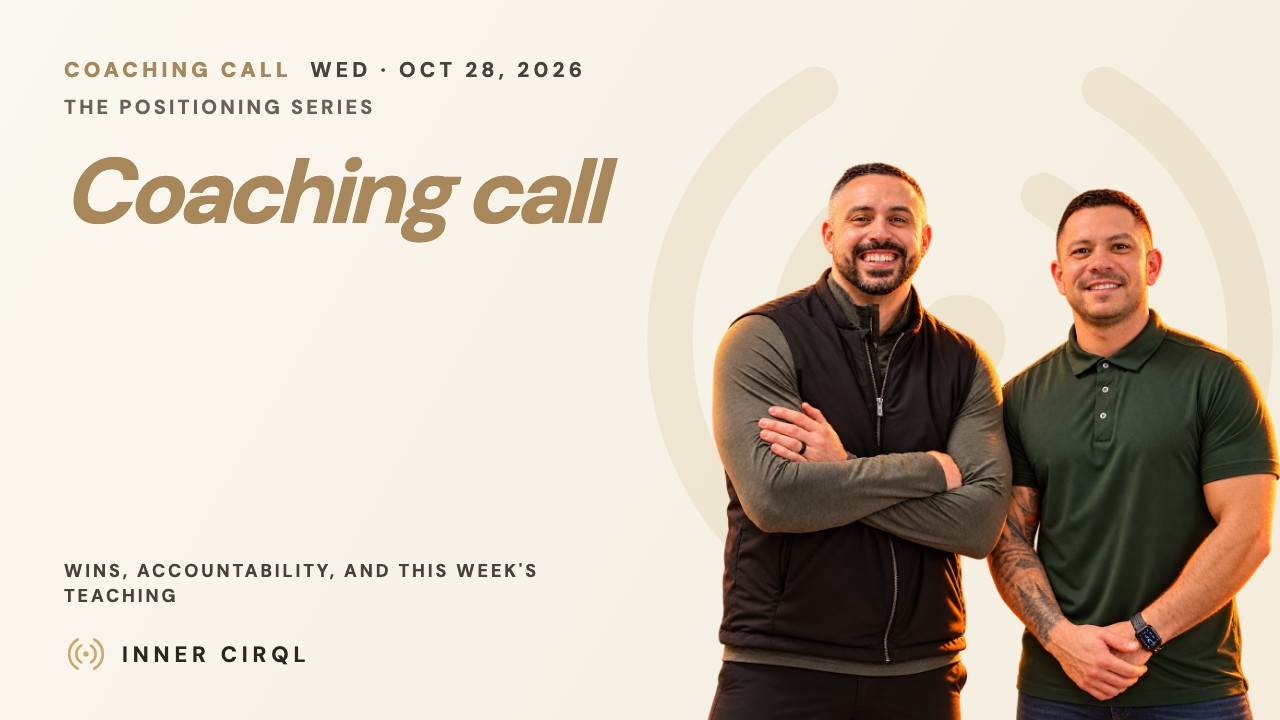
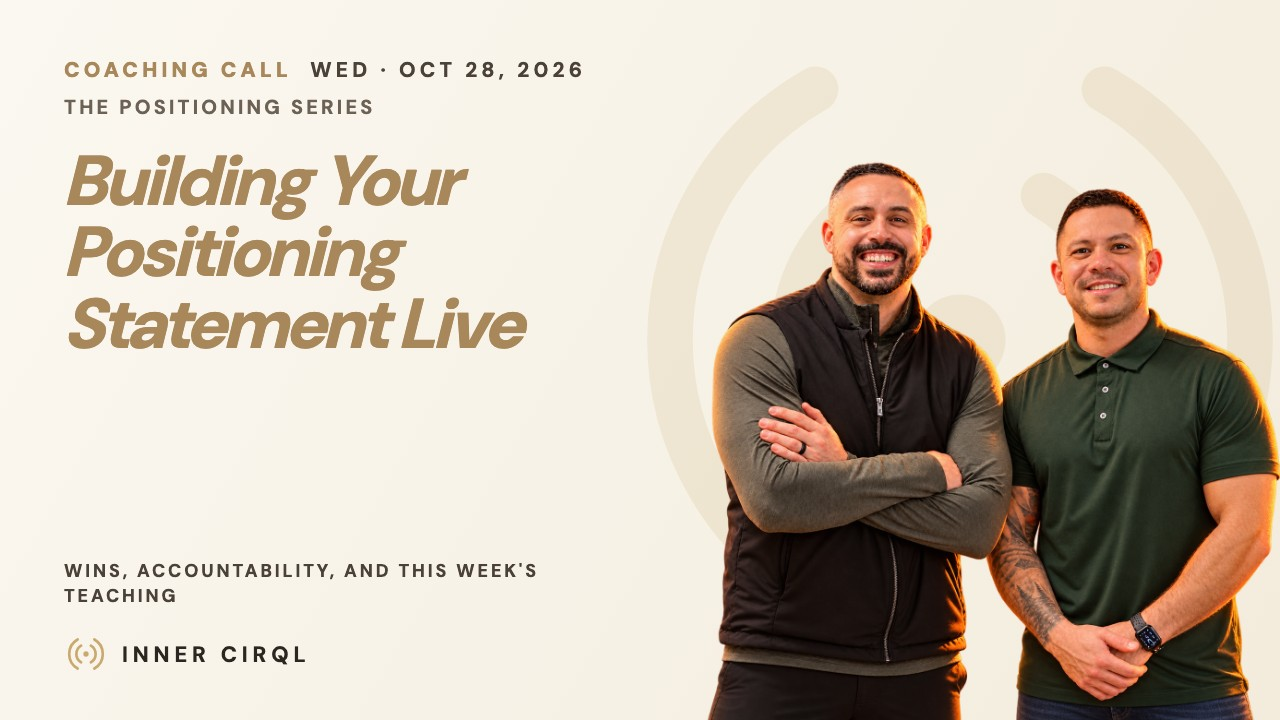
Training: retitle Oct 28 coaching call (The Positioning Series · Building Your Positioning Statement Live) + thumbnail

Changed region(s): [[0.0312, 0.2139, 0.5, 0.4889]]

diff --git a/training/index.html b/training/index.html
@@ -106,6 +106,25 @@ window.LIBRARY = {
   ],
   "items": [
     {
+      "id": "v-2026-10-28",
+      "date": "2026-10-28",
+      "dateLabel": "October 28, 2026",
+      "series": "the-positioning-series",
+      "week": null,
+      "name": "Building Your Positioning Statement Live",
+      "title": "The Positioning Series · Building Your Positioning Statement Live",
+      "headline": [
+        "Building Your Positioning Statement Live"
+      ],
+      "sub": "The Positioning Series",
+      "desc": "The Positioning Series: Building Your Positioning Statement Live. Wins, accountability, and the teaching segment, edited replay.",
+      "href": "https://coach.theinnercirql.com/2026-10-28/",
+      "pdf": null,
+      "slides": null,
+      "embed": "https://www.youtube.com/embed/CB_obZCdTHg?rel=0&modestbranding=1",
+      "thumb": "/assets/thumbs/oct-28-call.jpg?v=1"
+    },
+    {
       "id": "v-2026-11-11",
       "date": "2026-11-11",
       "dateLabel": "November 11, 2026",
@@ -143,25 +162,6 @@ window.LIBRARY = {
       "slides": null,
       "embed": "https://www.youtube.com/embed/QMkoeWeUkXY?rel=0&modestbranding=1",
       "thumb": "/assets/thumbs/sep-23-call.jpg?v=1"
-    },
-    {
-      "id": "v-2026-10-28",
-      "date": "2026-10-28",
-      "dateLabel": "October 28, 2026",
-      "series": "the-positioning-series",
-      "week": null,
-      "name": "Coaching call",
-      "title": "The Positioning Series · Coaching call",
-      "headline": [
-        "Coaching call"
-      ],
-      "sub": "The Positioning Series",
-      "desc": "The Positioning Series: Coaching call. Wins, accountability, and the teaching segment, edited replay.",
-      "href": "https://coach.theinnercirql.com/2026-10-28/",
-      "pdf": null,
-      "slides": null,
-      "embed": "https://www.youtube.com/embed/CB_obZCdTHg?rel=0&modestbranding=1",
-      "thumb": "/assets/thumbs/oct-28-call.jpg?v=1"
     },
     {
       "id": "v-2026-10-14",
